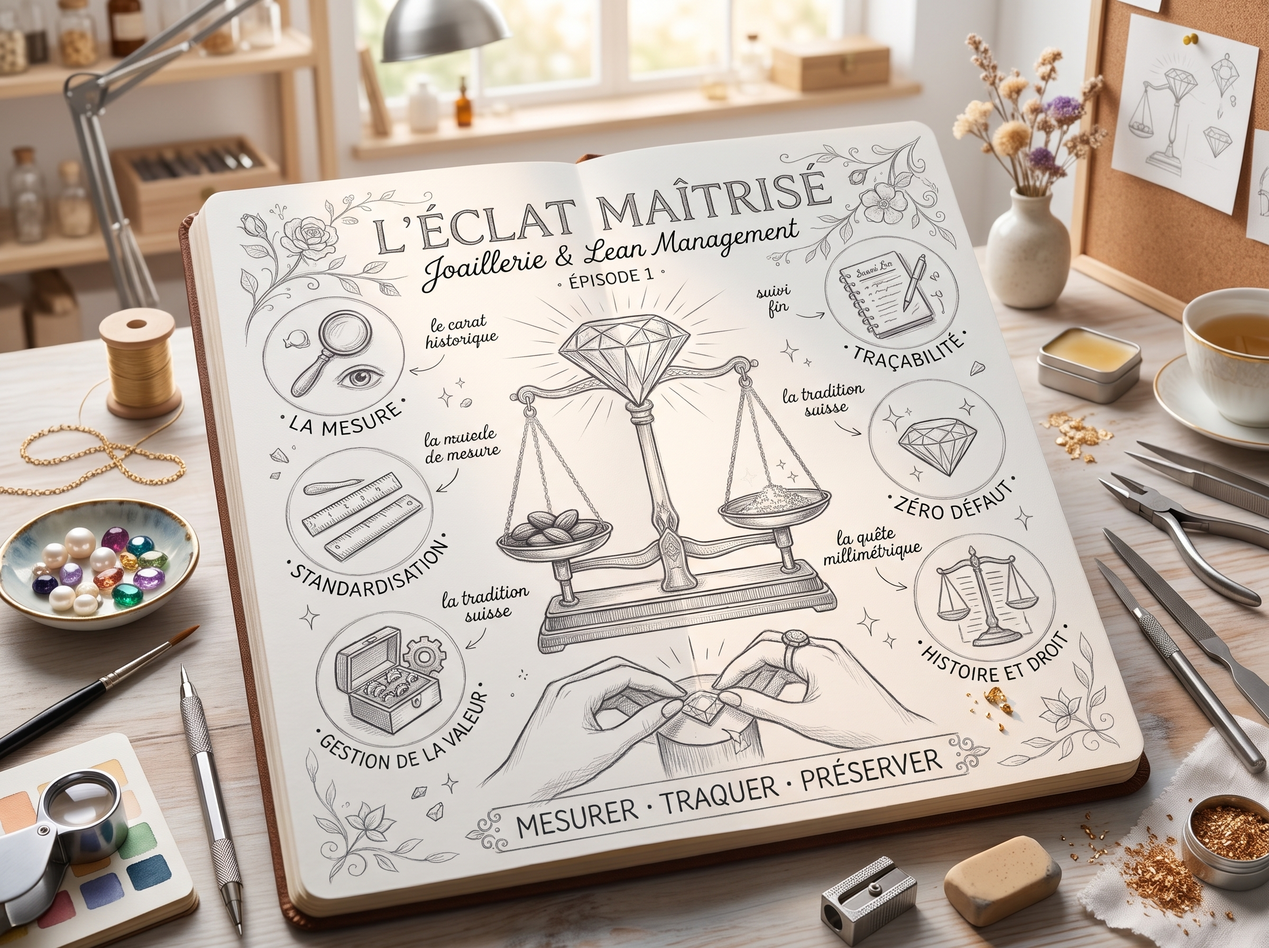
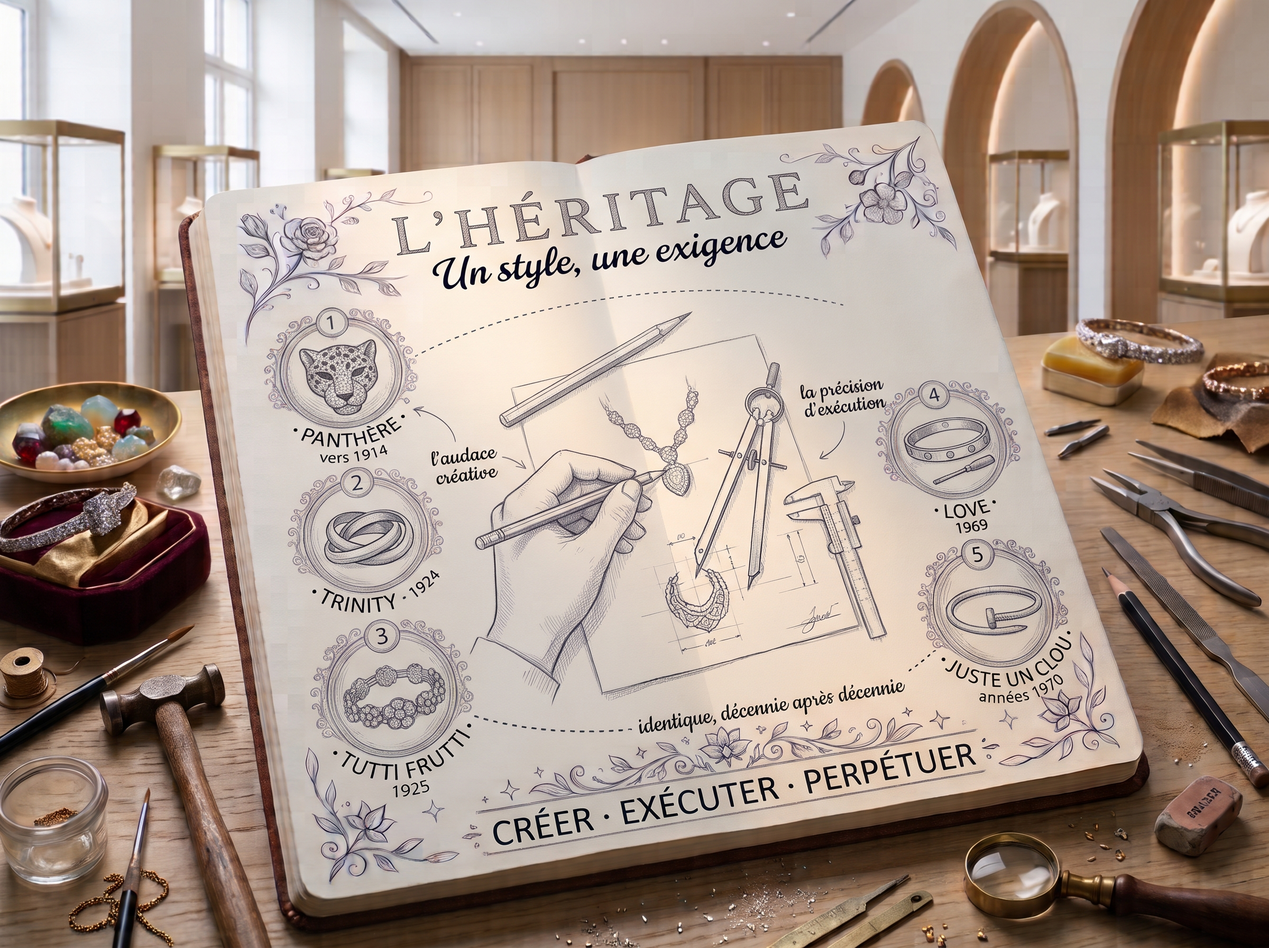
feat: épisode 1 « L'héritage : un style, une exigence » (angle Cartier joaillerie) – illustration et texte de la carte

diff --git a/src/data/episodes.js b/src/data/episodes.js
@@ -19,14 +19,13 @@ export const episodes = [
   {
     id: 'ep-1',
     episodeNumber: 1,
-    title: "Épisode 1 – L'héritage joaillier",
-    shortTitle: "L'héritage joaillier",
-    cardTitle: 'Joaillerie &\nLean management',
+    title: "Épisode 1 – L'héritage : un style, une exigence",
+    shortTitle: "L'héritage",
     image: '/infographics/ep-1.jpg',
-    plannedDuration: '14 min',
+    plannedDuration: '15 min',
     description:
-      "De l'orfèvre de la Renaissance aux grandes maisons de haute joaillerie : comment une exigence de précision au centième de carat a façonné une culture du zéro défaut, terrain naturel pour l'excellence opérationnelle.",
-    keywords: [...base, 'savoir-faire', 'histoire'],
+      "Panthère, Trinity, Tutti Frutti, LOVE, Juste un Clou : des signatures reconnaissables entre toutes. Une signature durable suppose l'audace créative et une exécution identique, décennie après décennie : c'est le terrain de l'excellence opérationnelle.",
+    keywords: [...base, 'héritage', 'signatures'],
   },
   {
     id: 'ep-2',

diff --git a/design/retouches/retouch.html b/design/retouches/retouch.html
@@ -406,7 +406,7 @@ if (new URLSearchParams(location.search).has('hero')) document.getElementById('h
   const ctx = canvas.getContext('2d', { willReadFrequently: true });
   ctx.drawImage(img, 0, 0);
   if (EP === 2) fixEpisode2Carnet(ctx);
-  if (EP === 1) fixEpisode1(ctx);
+  // ép. 1 : la version « Cartier joaillerie » (L'HÉRITAGE) est publiée telle quelle
   if (EP === 3) fixEpisode3Carnet(ctx);
   if (EP === 5) fixEpisode5(ctx);
   eraseAll(ctx, ERASE[EP] || []);

diff --git a/design/notebooklm-cartier-joaillerie.md b/design/notebooklm-cartier-joaillerie.md
@@ -1,0 +1,47 @@
+# L'Éclat Maîtrisé – kit NotebookLM (angle Cartier joaillerie)
+
+Réglages de chaque notebook : **Analyse approfondie**, **français**, longueur par défaut.
+Sources : la fiche commune ci-dessous (Texte copié) + les pages Wikipédia indiquées par épisode.
+cartier.com bloque la lecture automatique de NotebookLM : les faits Cartier passent par la fiche.
+
+## Fiche commune (à coller dans chaque notebook)
+
+FICHE SOURCE – Cartier joaillerie : faits publics
+
+Cadre : « L'Éclat Maîtrisé » est un travail d'analyse personnel de Christophe Fournier, qualiticien, sur l'univers de la haute joaillerie. Il n'est pas affilié à Cartier.
+
+Règles pour les animateurs : ne citer de Cartier que les faits de cette fiche, en précisant leur origine (« Cartier indique… », « selon Sotheby's… ») ; ne jamais affirmer comment Cartier organise ses ateliers ni donner de chiffres internes ; parler de « ce que cela implique dans un atelier de haute joaillerie de ce niveau » ; tout exemple chiffré est fictif ; ne pas parler de candidature ni de recrutement.
+
+Ce que Cartier indique sur son site :
+- Les ateliers de Haute Joaillerie sont à Paris, berceau de la Maison. Cartier se présente comme l'une des seules Maisons à réunir tous les métiers sous un même toit : experts en pierres, dessinateurs, sertisseurs, polisseurs…
+- L'Institut de Joaillerie Cartier, créé en 2002 à Paris, assure la formation continue des collaborateurs et le maintien du niveau d'exigence de la Maison. Les ateliers travaillent chaque jour avec lui pour partager savoir-faire et innovation, notamment la préservation de métiers rares comme la glyptique (gravure des pierres dures).
+- Artisans et ingénieurs travaillent ensemble, en associant savoir-faire traditionnel et innovations numériques.
+- La Maison des Métiers d'Art a pour mission de « préserver, innover, partager ».
+- Le bracelet LOVE est une icône depuis sa création à New York en 1969. Juste un Clou (début des années 1970) révèle le potentiel esthétique d'un simple clou. Un bracelet Tutti Frutti de Cartier est daté de 1925.
+- Approvisionnement : les fournisseurs d'or de Cartier se sont engagés par écrit à un approvisionnement responsable ; la Maison noue des relations de long terme avec des fournisseurs qui partagent ses valeurs ; elle exclut les matériaux synthétiques et les imitations de ses collections de bijoux ; elle a été l'un des 14 membres fondateurs du Responsible Jewellery Council en 2005 et a lancé en 2021 la Watch & Jewellery Initiative 2030.
+- Culture mise en avant : respect, curiosité, générosité.
+
+Ce que rapportent d'autres sources :
+- Panthère : motif apparu vers 1914 (Sotheby's) ; Jeanne Toussaint, directrice de la joaillerie, crée en 1948 la première panthère en volume.
+- La Trinity fête ses 100 ans en 2024 (Sotheby's).
+- Le LOVE est attribué au designer Aldo Cipullo ; il s'ouvre et se ferme avec un tournevis.
+- Richemont, groupe propriétaire de Cartier, affiche pour objectif à long terme la traçabilité de toutes les matières premières.
+
+## Phrase d'ouverture commune à chaque prompt
+
+Vous animez « L'Éclat Maîtrisé », un travail d'analyse personnel de Christophe Fournier, qualiticien, sur l'excellence opérationnelle dans l'univers de la haute joaillerie, à travers l'exemple de la Maison Cartier (non affilié). Respectez strictement les règles de la fiche source. Ton expert, admiratif mais factuel. Environ 15 minutes, pas moins de 12.
+
+## Prompts par épisode
+
+1. **L'héritage : un style, une exigence** — Racontez comment Cartier a construit des signatures reconnaissables entre toutes : Panthère, Tutti Frutti, Trinity, LOVE, Juste un Clou. Montrez qu'une signature durable suppose l'audace créative et une exécution identique pièce après pièce, décennie après décennie : c'est le terrain de l'excellence opérationnelle. Annoncez la promesse de la série : relire l'univers de la haute joaillerie avec les outils du Lean et de la qualité. Concluez par « Qu'est-ce qui fait la signature de votre atelier ? » et annoncez l'épisode 2 sur les ateliers. *(Wikipédia : Cartier (entreprise), Jeanne Toussaint, Louis Cartier, Joaillerie)*
+2. **Tous les métiers sous un même toit : penser en flux** — Partez de ce que Cartier indique sur ses ateliers parisiens de Haute Joaillerie, qui réunissent tous les métiers. Expliquez ce que cela implique : valeur pour la cliente, chaîne de valeur d'une pièce (dessin, choix des pierres, sertissage, polissage, contrôle) et flux entre métiers. Proposez la cartographie de la chaîne de valeur (VSM) comme premier outil. Concluez par « Combien de temps une pièce attend-elle entre deux métiers ? » et annoncez l'épisode 3. *(Lean (production), Value stream mapping)*
+3. **Les 7 gaspillages** — Passez en revue les 7 mudas avec des exemples types d'un atelier de haute joaillerie, en précisant qu'il ne s'agit pas de constats chez Cartier : pièce qui attend ses pierres, reprises de serti, surqualité invisible, déplacements entre métiers, encours, contrôles redondants ; ajoutez le talent inexploité. Reliez la chasse au gaspillage à la valeur de respect. Terminez par l'observation au Gemba, sans juger les personnes. Concluez par « Quel gaspillage ne voyez-vous plus ? » et annoncez l'épisode 4. *(Muda (japonais), Gemba)*
+4. **Le 5S à l'établi** — 5S appliqués à l'établi du joaillier et du sertisseur : pierres à ne jamais confondre (une boîte par commande), outils à portée de main, propreté, récupération des limailles. Pièges (grand ménage sans lendemain, 5S imposé, établis personnels) et détrompeur. Concluez par « Combien de temps avez-vous cherché quelque chose cette semaine ? » et annoncez l'épisode 5. *(5S, Détrompeur)*
+5. **Transmettre le geste** — Partez de l'Institut de Joaillerie Cartier (2002, formation continue), de la préservation de la glyptique et de la mission « préserver, innover, partager ». Le standard de travail rend la transmission possible sans figer le geste : meilleure méthode connue, points clés, formation au poste de type TWI ; il devient la base de l'amélioration. Concluez par « Quel geste de votre atelier repose sur une seule personne ? » et annoncez l'épisode 6. *(Training Within Industry, Glyptique)*
+6. **L'icône à l'identique** — Partez du LOVE (1969) et de Juste un Clou (début des années 1970) : des icônes reconnaissables au premier regard qui doivent être parfaitement identiques. Qualité répétable : caractéristiques critiques, maîtrise des procédés, contrôle d'aspect objectivé (échantillons limites, éclairage, loupe ×10), capabilité. Exemples génériques. Concluez par « Vos critères sont-ils les mêmes pour tous vos contrôleurs ? » et annoncez l'épisode 7. *(Maîtrise statistique des procédés, Capabilité)*
+7. **Maîtriser la complexité (Panthère, Tutti Frutti)** — Partez de la Panthère (vers 1914 ; première panthère en volume en 1948 sous Jeanne Toussaint) et du Tutti Frutti (1925). AMDEC sur une pièce unique ou de petite série : pierre qui se desserre, articulation fragile, porosité ; gravité, occurrence, détection ; agir avant la fabrication. Exemples génériques, sans décrire la conception réelle chez Cartier. Concluez par « Quel risque découvrez-vous trop tard ? » et annoncez l'épisode 8. *(AMDEC, Jeanne Toussaint)*
+8. **Le Gemba** — Partez de la culture mise en avant par Cartier : respect, curiosité, générosité. Le Gemba comme démarche d'écoute ; le management visuel pour voir en un coup d'œil si tout est normal (suivi des pièces en cours, tableaux d'atelier, réunions courtes). Concluez par « Quand êtes-vous allé observer sans rien demander ? » et annoncez l'épisode 9. *(Gemba, Management visuel)*
+9. **La pierre qui tombe** — Cas fictif : une cliente rapporte une bague à laquelle il manque une pierre. Protéger la cliente, QQOQCP, Ishikawa, 5 Pourquoi, actions correctives, standardisation (8D). Lien avec la confiance accordée à une grande Maison : resertir ne suffit pas, il faut comprendre. Concluez par « Combien de vos actions traitent la cause, et non le symptôme ? » et annoncez l'épisode 10. *(Diagramme d'Ishikawa, 5 pourquoi)*
+10. **De l'idée à la pièce** — Partez de ce que Cartier indique : artisans et ingénieurs ensemble, savoir-faire traditionnel et innovations numériques. Excellence opérationnelle dans le développement : conception pensée pour la fabrication, prototypes, PDCA, passage de la pièce unique à la petite série ; innovation de rupture et Kaizen. Concluez par « Quelle petite amélioration pourriez-vous tester dès lundi ? » et annoncez l'épisode 11. *(Roue de Deming, Kaizen)*
+11. **La qualité commence chez le fournisseur** — Engagements publics de Cartier (fournisseurs d'or engagés par écrit, relations de long terme, pas de matériaux synthétiques, membre fondateur du RJC en 2005, Watch & Jewellery Initiative 2030) et objectif de traçabilité de Richemont. Qualification et audit fournisseurs, traçabilité des pierres et des métaux, chaîne de garantie, respect de la matière à l'atelier. Aucun chiffre Cartier. Concluez par « Connaissez-vous l'origine de chaque matière que vous travaillez ? » et annoncez l'épisode 12. *(Processus de Kimberley, Traçabilité)*
+12. **La haute joaillerie de demain** — « Préserver, innover, partager », glyptique, alliance artisans et numérique. Le numérique (CAO, données d'atelier, vision artificielle) démultiplie le geste sans le remplacer, à condition de processus stables et standardisés. Bouclez la série : préserver, innover, partager, c'est aussi la promesse de l'excellence opérationnelle. Concluez par un remerciement et une invitation à réécouter la série. *(Conception assistée par ordinateur, Vision industrielle)*
